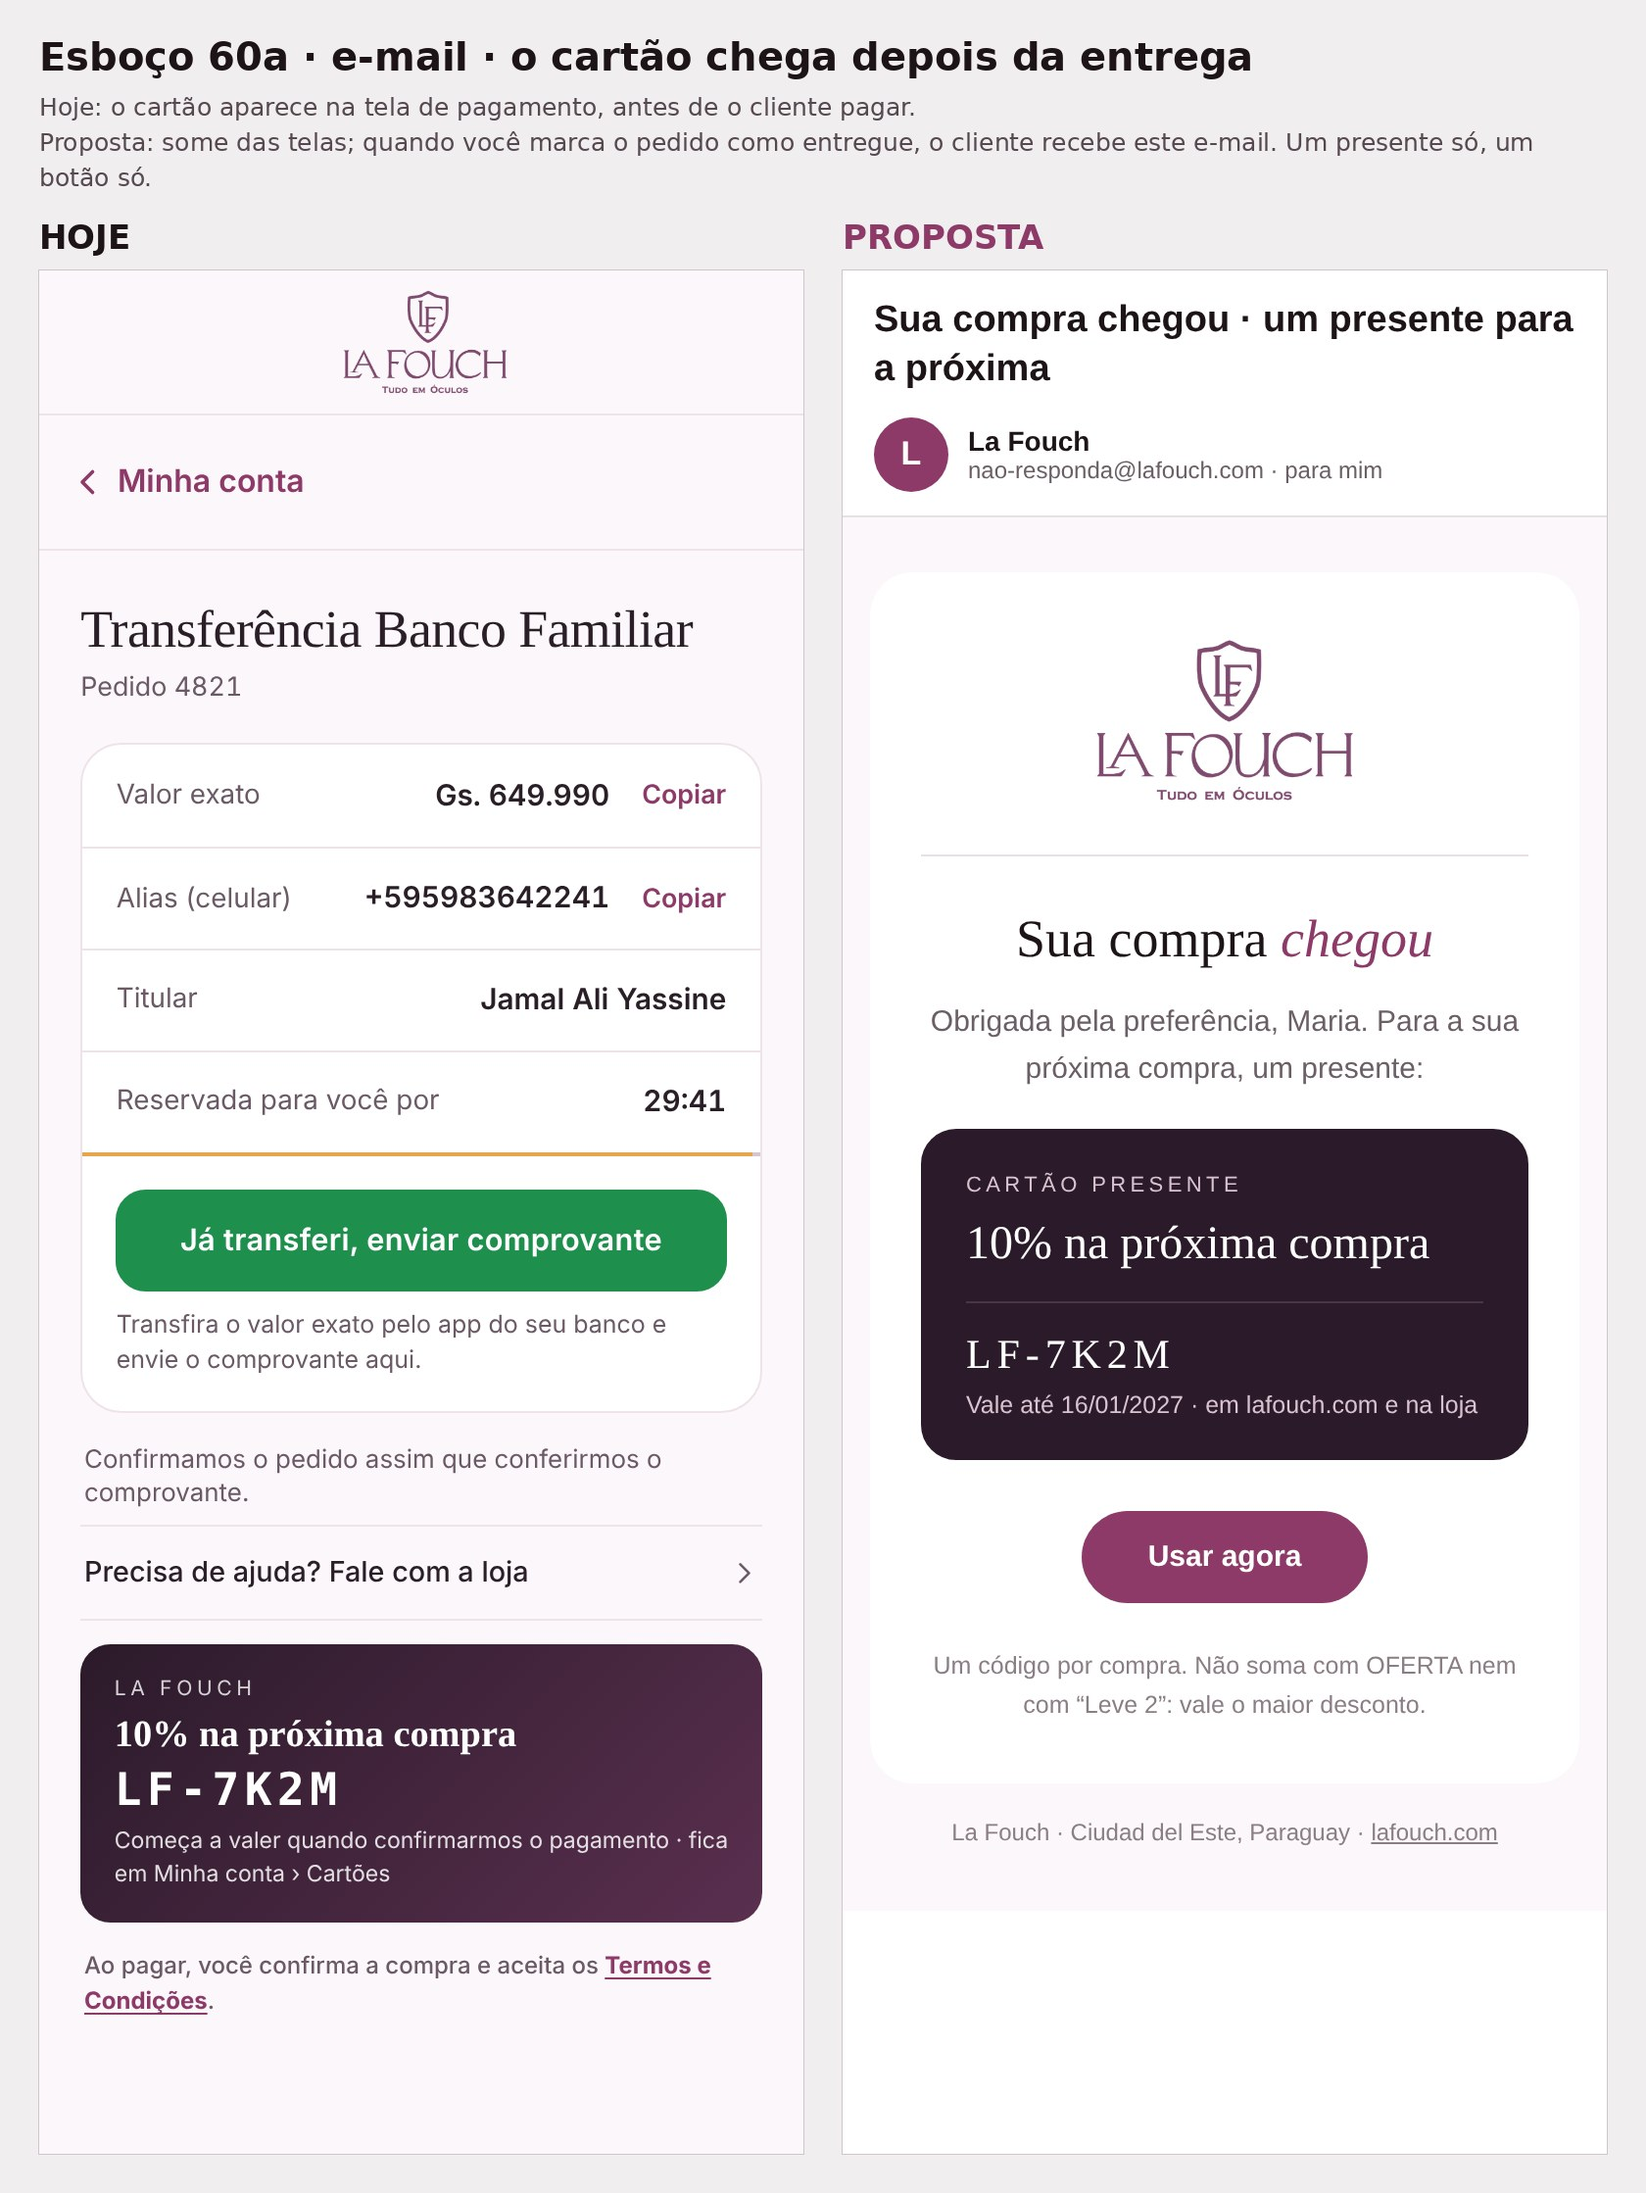
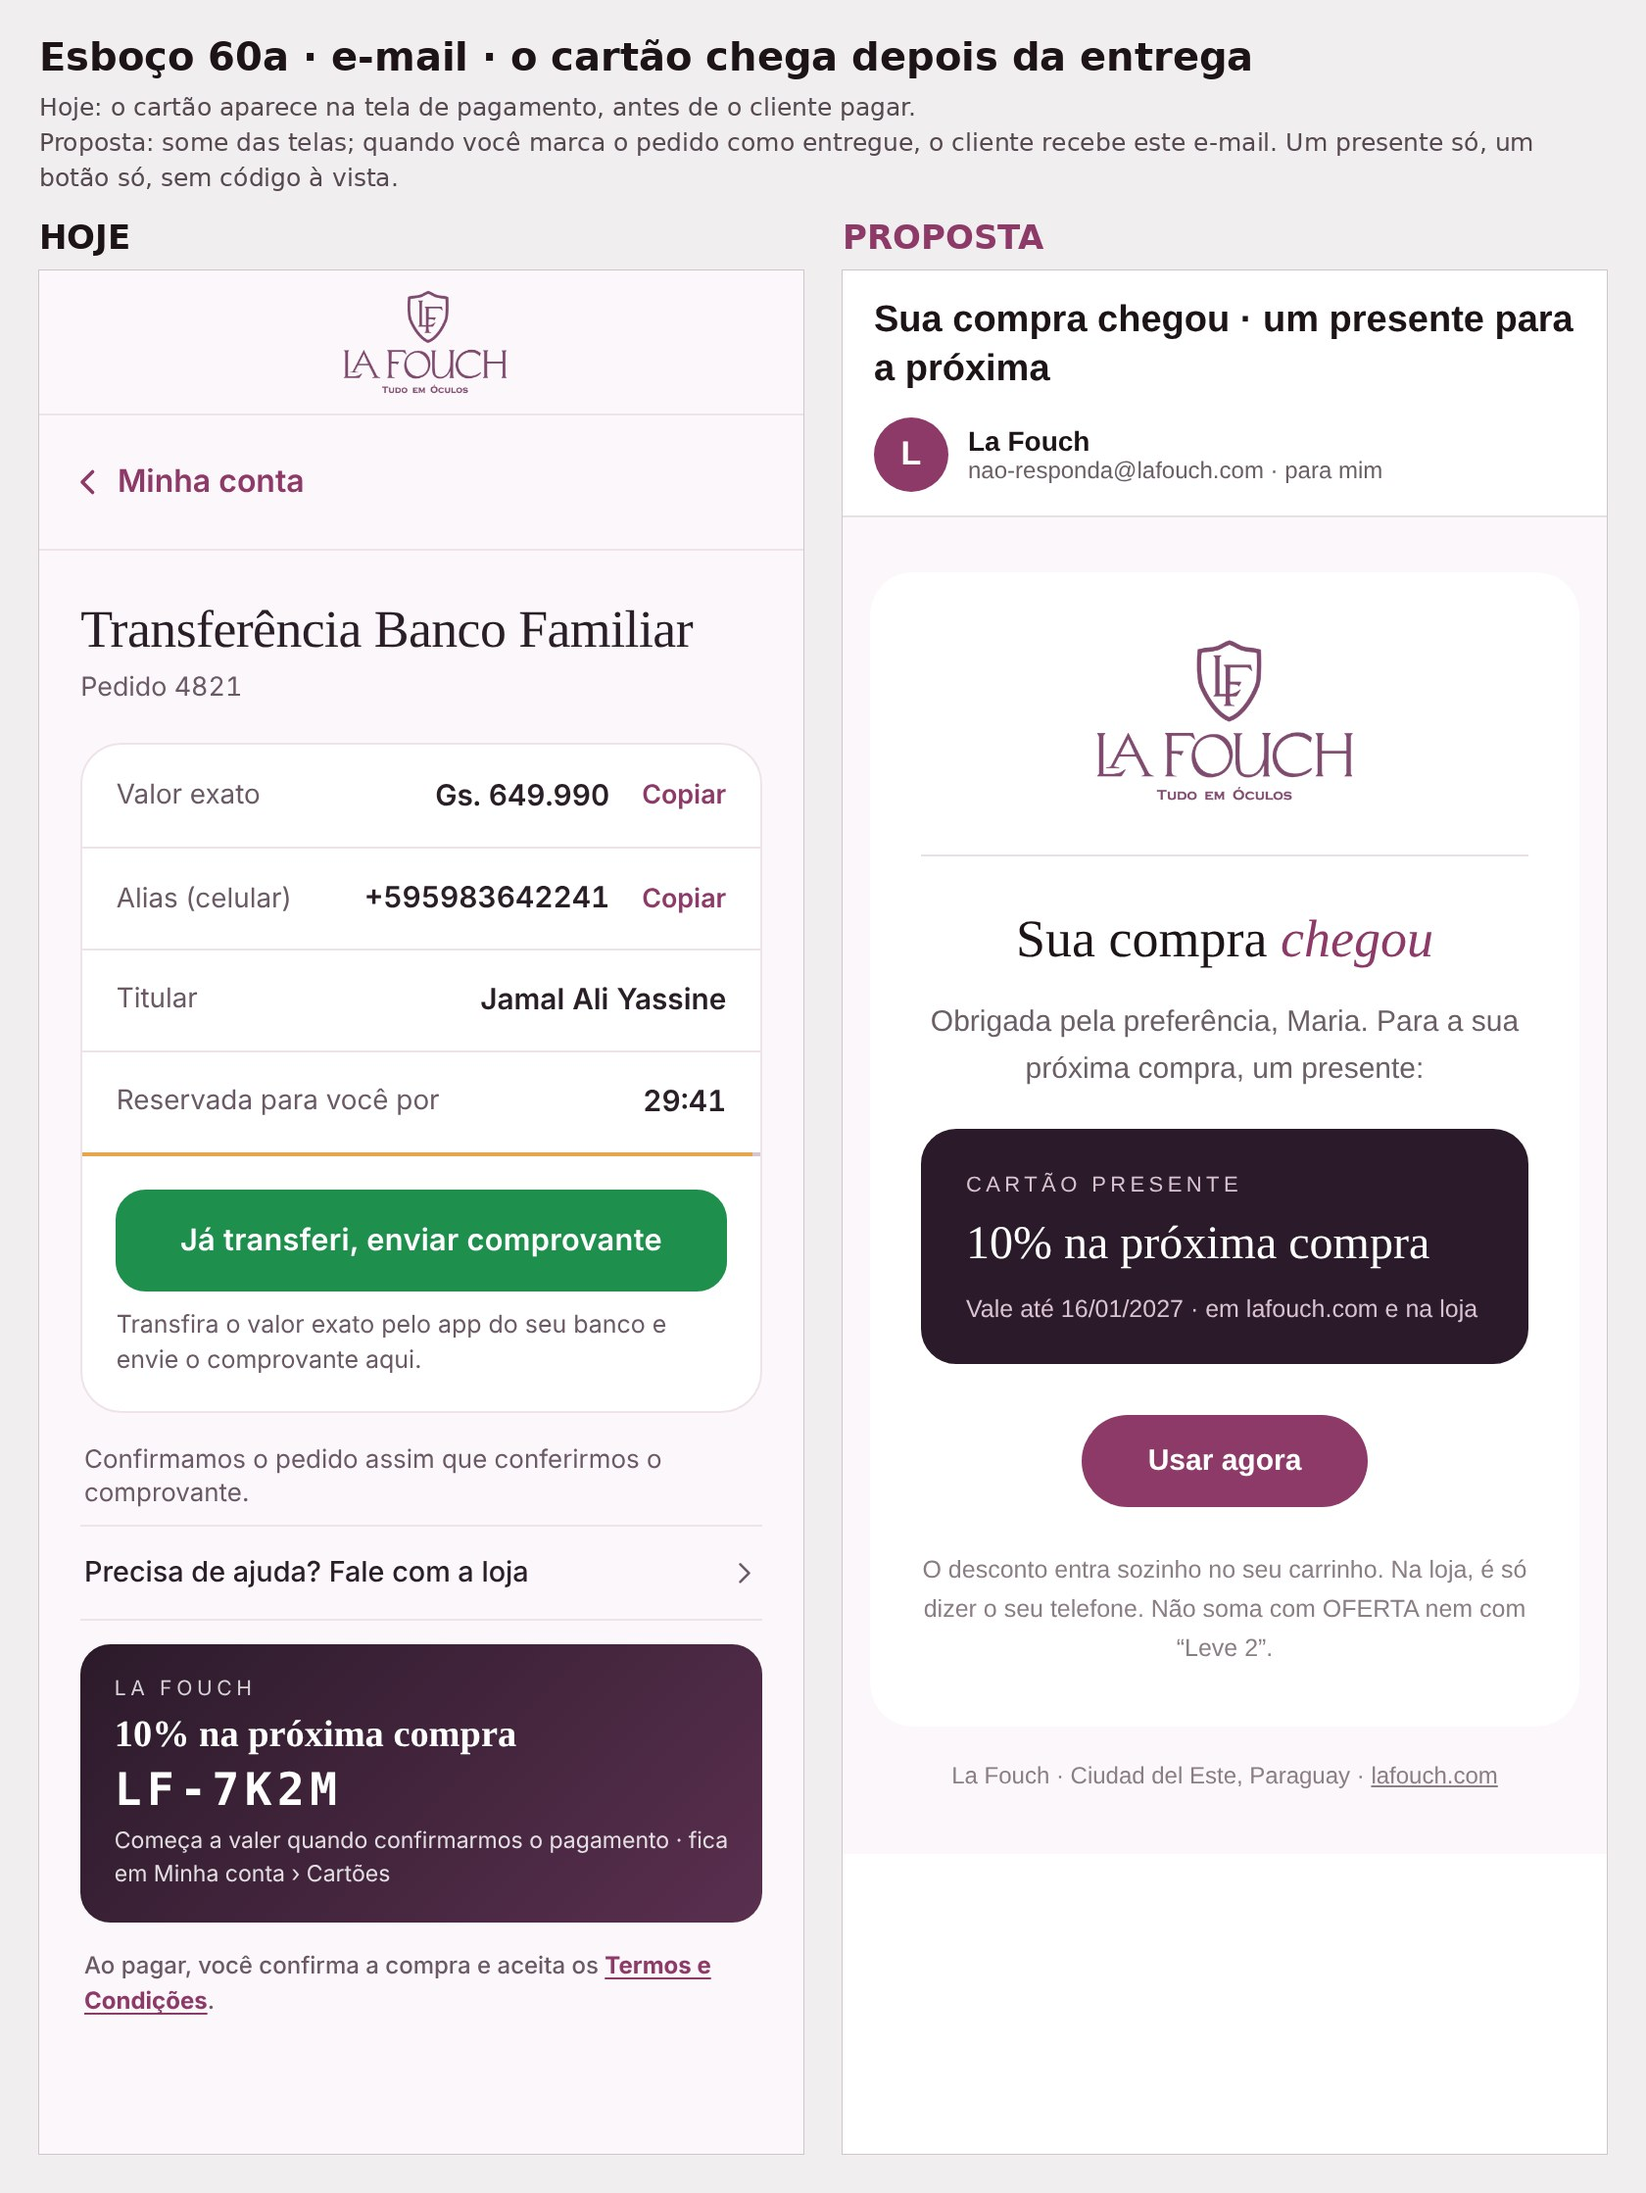
Esboços 60a/60b sem o código à vista; lista viva
Claude-Session: https://claude.ai/code/session_01Vj5GPR2QjandaFr6ascRKC

diff --git a/work/s396/gera.js b/work/s396/gera.js
@@ -1,6 +1,8 @@
 // S396 · esboço 60: o cliente recebendo o cartão de desconto por e-mail DEPOIS de receber a compra (molde aprovado dos e-mails). Nada implementado.
 const E=require('/home/claude/lafouch/functions/email.js');
+// sem o código à vista: o botão já aplica o cartão; o código fica em Minha conta › Cartões
+const SEMCOD=(h)=>h.replace(/<div style="height:1px;background:[^"]*"><\/div><div style="font:500 21px[^>]*>[^<]*<\/div>/,'<div style="height:1px;background:#4a3447;opacity:.0"></div>').replace('margin:10px 0 14px','margin:10px 0 10px');
 const val='Vale até 16/01/2027 · em lafouch.com e na loja';
-const a=E.molde('Sua compra '+E.I('chegou'),E.P('Obrigada pela preferência, Maria. Para a sua próxima compra, um presente:')+E.cartao('CARTÃO PRESENTE','10% na próxima compra','LF-7K2M',val,true)+E.B('Usar agora','#')+E.PQ('Um código por compra. Não soma com OFERTA nem com “Leve 2”: vale o maior desconto.'));
-const b=E.molde('Gostou dos seus '+E.I('óculos')+'?',E.P('Presenteie uma amiga: ela ganha 10% na primeira compra, e você ganha outro cartão de 10% quando ela comprar.')+E.cartao('CARTÃO PRESENTE','10% para sua amiga','AMIGA-9H3LQ5','Vale até 16/01/2027',false)+E.B('Enviar para uma amiga','#')+E.LK('Contar como foi a compra','#'));
+const a=E.molde('Sua compra '+E.I('chegou'),E.P('Obrigada pela preferência, Maria. Para a sua próxima compra, um presente:')+SEMCOD(E.cartao('CARTÃO PRESENTE','10% na próxima compra','LF-7K2M',val,true))+E.B('Usar agora','#')+E.PQ('O desconto entra sozinho no seu carrinho. Na loja, é só dizer o seu telefone. Não soma com OFERTA nem com “Leve 2”.'));
+const b=E.molde('Gostou dos seus '+E.I('óculos')+'?',E.P('Presenteie uma amiga: ela ganha 10% na primeira compra, e você ganha outro cartão de 10% quando ela comprar.')+SEMCOD(E.cartao('CARTÃO PRESENTE','10% para sua amiga','AMIGA-9H3LQ5','Vale até 16/01/2027',false))+E.B('Enviar para uma amiga','#')+E.LK('Contar como foi a compra','#'));
 require('fs').writeFileSync('/tmp/s396/e.json',JSON.stringify([{arq:'a',assunto:'Sua compra chegou · um presente para a próxima',html:a},{arq:'b',assunto:'Um presente para uma amiga',html:b}]));

diff --git a/work/s396/esb.py b/work/s396/esb.py
@@ -19,5 +19,5 @@ with sync_playwright() as p:
     # Hoje do 60a: o cartão na tela de pagamento, antes de pagar (foto real da tela, do esboço 59a)
     H=Image.open('/tmp/s395/a_h.png').convert('RGB');H.save(T+'ah.png');foto(pg,L[0],T+'ap.png');iguala(T+'ah.png',T+'ap.png')
     nota(pg,'Hoje não existe um e-mail separado.<br><br>O cartão da amiga aparece junto com o do cliente, na mesma hora.',T+'bh.png');foto(pg,L[1],T+'bp.png');iguala(T+'bh.png',T+'bp.png');b.close()
-comum.prancha('60a-email-cartao-depois-da-entrega.jpg','Esboço 60a · e-mail · o cartão chega depois da entrega',['Hoje: o cartão aparece na tela de pagamento, antes de o cliente pagar.','Proposta: some das telas; quando você marca o pedido como entregue, o cliente recebe este e-mail. Um presente só, um botão só.'],T+'ah.png',T+'ap.png')
+comum.prancha('60a-email-cartao-depois-da-entrega.jpg','Esboço 60a · e-mail · o cartão chega depois da entrega',['Hoje: o cartão aparece na tela de pagamento, antes de o cliente pagar.','Proposta: some das telas; quando você marca o pedido como entregue, o cliente recebe este e-mail. Um presente só, um botão só, sem código à vista.'],T+'ah.png',T+'ap.png')
 comum.prancha('60b-email-presente-para-amiga.jpg','Esboço 60b · e-mail · o cartão da amiga, uns dias depois',['Hoje: o cartão da amiga vem colado ao do cliente.','Proposta (minha recomendação): sai sozinho, cerca de 7 dias depois da entrega, quando a pessoa já usou os óculos.'],T+'bh.png',T+'bp.png')

diff --git a/docs/FALTA-APROVAR-15-11.md b/docs/FALTA-APROVAR-15-11.md
@@ -298,3 +298,4 @@ Não são esquecimento (estavam na lista, parados de propósito ou por ordem do 
 - 16/11/2026 18:58 · DONO: ESBOÇO 77 (Clientes + Conta atacadista, design novo; substitui o 76) "quase tudo aprovado" → 77 APROVADO, esperando "implementar", MENOS o topo de Clientes ("+ Novo cliente", "Atacado ›", "Cartões ›": não gostou). ESBOÇO 78 enviado, ESPERANDO escolha: A) "+" redondo 44 px ao lado do título + Atacado e Cartões como 2 linhas de cartão (ícone e frase) antes da busca; B) "+" redondo + abas em linha Clientes | Atacado | Cartões.
 - 16/11 19:01 — DONO sobre 59b: "só precisa atualizar 'Aguardando sua transferência' por algo que indique que o pagamento está demorando para processar e, se já pagou, pode enviar o comprovante" → 59b REFEITO (work/s395/esb_b.py): depois de 2 min o aviso vira "A confirmação está demorando mais que o normal. Se você já transferiu, envie o comprovante." + linha "Enviar comprovante". Sobre 59e perguntou "o botão voltar para de limpar os campos?" → respondido: sim (guardar o que é digitado na hora + não redesenhar o passo). ESPERANDO aprovação e as respostas (quando sai o e-mail do cartão; caminho no app do banco; 2 min).
 - 16/11 19:04–19:13 — DONO respondeu: caminho no banco = "Transferir por alias", tipo "Celular" (✔); 2 min de espera (✔); o cartão de desconto sai quando ELE MARCA ENTREGUE no app (retirada: na hora; delivery: quando a transportadora confirma a ele). Conferido: o app já avisa o servidor ao marcar entregue (reserva › liberar). Pediu o ESBOÇO do cliente recebendo o cupom e a minha opinião sobre mandar o cupom do cliente e logo depois o da amiga → ESBOÇOS 60a (e-mail do cartão depois da entrega, um presente só) e 60b (cartão da amiga num e-mail separado, ~7 dias depois) enviados (work/s396). Opinião dada: não mandar os dois juntos; um pedido por mensagem; o da amiga depois que a pessoa já usou os óculos. NADA implementado. ESPERANDO: aprovar 59a–59e + 60a; decidir o 60b (junto, separado em 7 dias, ou só o do cliente).
+- 16/11 19:23 — DONO: "quase lá": o cartão presente NÃO é para mostrar o código; e ele GOSTA do cupom Cliente fiel (perguntou se eu dizia para remover → NÃO: fica). → 60a/60b refeitos SEM o código à vista (botão aplica sozinho; código fica em Minha conta › Cartões). Dito a ele: hoje TODO pedido pago gera "10% na próxima compra" + cartão da amiga, e a cada 3 compras o Cliente fiel (também 10%) — os dois de 10% se sobrepõem; sugestão: manter o Cliente fiel e rever o "próxima compra" de toda compra. PERGUNTAS ABERTAS: na loja dá para achar o cartão pelo telefone do cliente? manter o "próxima compra" a cada compra? cartão da amiga (a) 7 dias depois, (b) linha no e-mail da entrega, (c) tirar? aprovar 59a–59e. NADA implementado.
